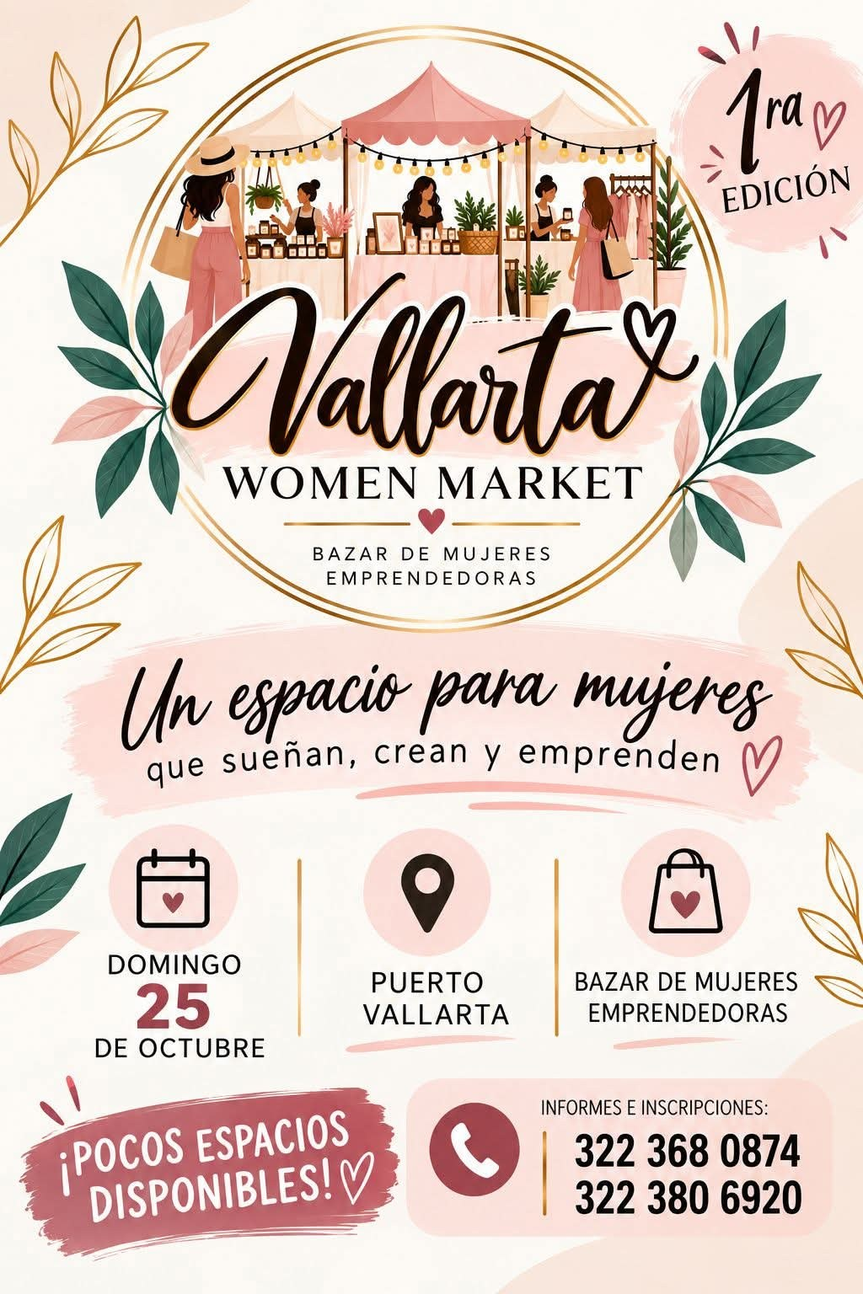
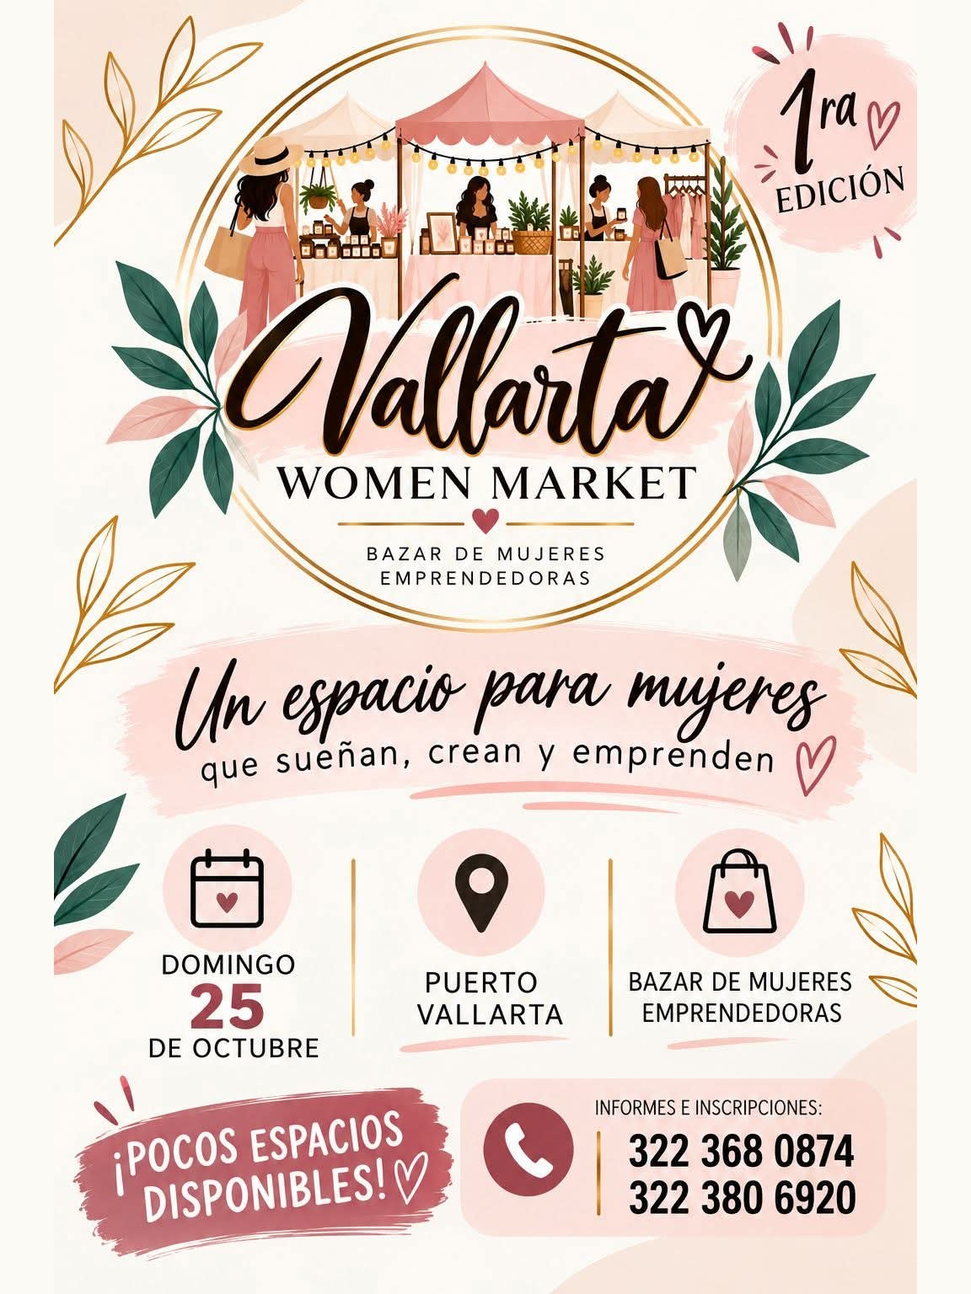
Vallarta Women Market: cartel nitido como foto y categorias con los giros del bazar

diff --git a/public/links/vallarta-women-market-mxl369n/index.html b/public/links/vallarta-women-market-mxl369n/index.html
@@ -13,9 +13,9 @@
 <meta property="og:description" content="Bazar de mujeres emprendedoras en Puerto Vallarta. Un espacio para mujeres que sueñan, crean y emprenden. 1ra edición: domingo 25 de octubre.">
 <meta property="og:url" content="https://www.hmulink.com/links/vallarta-women-market-mxl369n/">
 <meta property="og:locale" content="es_MX">
-<meta property="og:image" content="https://www.hmulink.com/links/vallarta-women-market-mxl369n/assets/portada.jpg">
+<meta property="og:image" content="https://www.hmulink.com/links/vallarta-women-market-mxl369n/assets/cartel.jpg">
 <meta name="twitter:card" content="summary_large_image">
-<meta name="twitter:image" content="https://www.hmulink.com/links/vallarta-women-market-mxl369n/assets/portada.jpg">
+<meta name="twitter:image" content="https://www.hmulink.com/links/vallarta-women-market-mxl369n/assets/cartel.jpg">
 <title>Vallarta Women Market - Servicios</title>
 <link rel="preconnect" href="https://fonts.googleapis.com">
 <link rel="preconnect" href="https://fonts.gstatic.com" crossorigin>
@@ -314,9 +314,9 @@ img.monogram{object-fit:contain;border:0;border-radius:12px;background:transpare
     <div class="hero__scroll" aria-hidden="true"><span>Desliza<i></i></span></div>
   </header>
 
-  <div class="shell figure figure--carousel" data-reveal data-gallery style="--figure-ratio:3/4"><div class="figure__viewport"><div class="figure__track"><div class="figure__slide"><img class="figure__media" src="https://www.hmulink.com/links/vallarta-women-market-mxl369n/assets/portada.jpg" alt="Vallarta Women Market" loading="eager"></div><div class="figure__slide"><img class="figure__media" src="https://www.hmulink.com/links/vallarta-women-market-mxl369n/assets/cartel.jpg" alt="Vallarta Women Market" loading="lazy"></div></div><button class="gallery-btn gallery-btn--prev" type="button" aria-label="Foto anterior">‹</button><button class="gallery-btn gallery-btn--next" type="button" aria-label="Foto siguiente">›</button></div><div class="gallery-dots"><button class="gallery-dot is-active" type="button" aria-label="Foto 1"></button><button class="gallery-dot" type="button" aria-label="Foto 2"></button></div></div>
-  <div class="marquee" aria-hidden="true"><div class="marquee__track" style="--marquee-seconds:84s"><span>Para expositoras <span class="dot">✦</span></span><span><em>Lo que encontrarás</em> <span class="dot">✦</span></span><span>Para las familias <span class="dot">✦</span></span><span>Para expositoras <span class="dot">✦</span></span><span><em>Lo que encontrarás</em> <span class="dot">✦</span></span><span>Para las familias <span class="dot">✦</span></span><span>Para expositoras <span class="dot">✦</span></span><span><em>Lo que encontrarás</em> <span class="dot">✦</span></span><span>Para las familias <span class="dot">✦</span></span><span>Para expositoras <span class="dot">✦</span></span><span><em>Lo que encontrarás</em> <span class="dot">✦</span></span><span>Para las familias <span class="dot">✦</span></span><span>Para expositoras <span class="dot">✦</span></span><span><em>Lo que encontrarás</em> <span class="dot">✦</span></span><span>Para las familias <span class="dot">✦</span></span><span>Para expositoras <span class="dot">✦</span></span><span><em>Lo que encontrarás</em> <span class="dot">✦</span></span><span>Para las familias <span class="dot">✦</span></span><span>Para expositoras <span class="dot">✦</span></span><span><em>Lo que encontrarás</em> <span class="dot">✦</span></span><span>Para las familias <span class="dot">✦</span></span><span>Para expositoras <span class="dot">✦</span></span><span><em>Lo que encontrarás</em> <span class="dot">✦</span></span><span>Para las familias <span class="dot">✦</span></span></div></div>
-  <section class="section" id="menu" data-theme="base"><div class="shell"><h2 data-reveal>Nuestros <em>servicios</em></h2><div class="menu-cat" data-reveal><div class="menu-cat__head"><h3 class="menu-cat__title">Para expositoras</h3><span class="menu-cat__rule"></span></div><div class="mrow"><div><span class="mrow__name">Espacio de 3 x 3 m</span><span class="mrow__desc">Máximo 2 personas por stand</span></div><span class="mrow__dots"></span><span class="mrow__price">$500 MXN</span></div><div class="mrow"><div><span class="mrow__name">Anticipo para apartar tu espacio</span><span class="mrow__desc">El resto se liquida antes del evento</span></div><span class="mrow__dots"></span><span class="mrow__price">$250 MXN</span></div><div class="mrow"><div><span class="mrow__name">Mesa, sillas y mobiliario</span><span class="mrow__desc">Si no cuentas con mobiliario, te apoyamos con la renta</span></div><span class="mrow__dots"></span><span class="mrow__price">Consultar</span></div></div><div class="menu-cat" data-reveal><div class="menu-cat__head"><h3 class="menu-cat__title">Lo que encontrarás</h3><span class="menu-cat__rule"></span></div><div class="mrow"><div><span class="mrow__name">Comida deliciosa, postres y bebidas</span></div></div><div class="mrow"><div><span class="mrow__name">Artesanías y cosmética</span></div></div><div class="mrow"><div><span class="mrow__name">Accesorios y ropa</span></div></div></div><div class="menu-cat" data-reveal><div class="menu-cat__head"><h3 class="menu-cat__title">Para las familias</h3><span class="menu-cat__rule"></span></div><div class="mrow"><div><span class="mrow__name">Concurso de disfraces para niños</span><span class="mrow__desc">4:00 pm · ¡Habrá premios sorpresa!</span></div></div><div class="mrow"><div><span class="mrow__name">Renta de brincolín</span><span class="mrow__desc">Con Diversiones El Güero</span></div></div></div></div></section>
+  <div class="shell figure" data-reveal style="--figure-ratio:3/4"><div class="figure__viewport"><img class="figure__media" src="https://www.hmulink.com/links/vallarta-women-market-mxl369n/assets/cartel.jpg" alt="Vallarta Women Market" loading="lazy"></div></div>
+  <div class="marquee" aria-hidden="true"><div class="marquee__track" style="--marquee-seconds:140s"><span>Antojos y bebidas <span class="dot">✦</span></span><span><em>Hecho a mano y belleza</em> <span class="dot">✦</span></span><span>Moda y accesorios <span class="dot">✦</span></span><span><em>Diversión para niños</em> <span class="dot">✦</span></span><span>Renta tu stand <span class="dot">✦</span></span><span>Antojos y bebidas <span class="dot">✦</span></span><span><em>Hecho a mano y belleza</em> <span class="dot">✦</span></span><span>Moda y accesorios <span class="dot">✦</span></span><span><em>Diversión para niños</em> <span class="dot">✦</span></span><span>Renta tu stand <span class="dot">✦</span></span><span>Antojos y bebidas <span class="dot">✦</span></span><span><em>Hecho a mano y belleza</em> <span class="dot">✦</span></span><span>Moda y accesorios <span class="dot">✦</span></span><span><em>Diversión para niños</em> <span class="dot">✦</span></span><span>Renta tu stand <span class="dot">✦</span></span><span>Antojos y bebidas <span class="dot">✦</span></span><span><em>Hecho a mano y belleza</em> <span class="dot">✦</span></span><span>Moda y accesorios <span class="dot">✦</span></span><span><em>Diversión para niños</em> <span class="dot">✦</span></span><span>Renta tu stand <span class="dot">✦</span></span><span>Antojos y bebidas <span class="dot">✦</span></span><span><em>Hecho a mano y belleza</em> <span class="dot">✦</span></span><span>Moda y accesorios <span class="dot">✦</span></span><span><em>Diversión para niños</em> <span class="dot">✦</span></span><span>Renta tu stand <span class="dot">✦</span></span><span>Antojos y bebidas <span class="dot">✦</span></span><span><em>Hecho a mano y belleza</em> <span class="dot">✦</span></span><span>Moda y accesorios <span class="dot">✦</span></span><span><em>Diversión para niños</em> <span class="dot">✦</span></span><span>Renta tu stand <span class="dot">✦</span></span><span>Antojos y bebidas <span class="dot">✦</span></span><span><em>Hecho a mano y belleza</em> <span class="dot">✦</span></span><span>Moda y accesorios <span class="dot">✦</span></span><span><em>Diversión para niños</em> <span class="dot">✦</span></span><span>Renta tu stand <span class="dot">✦</span></span><span>Antojos y bebidas <span class="dot">✦</span></span><span><em>Hecho a mano y belleza</em> <span class="dot">✦</span></span><span>Moda y accesorios <span class="dot">✦</span></span><span><em>Diversión para niños</em> <span class="dot">✦</span></span><span>Renta tu stand <span class="dot">✦</span></span></div></div>
+  <section class="section" id="menu" data-theme="base"><div class="shell"><h2 data-reveal>Nuestros <em>servicios</em></h2><div class="menu-cat" data-reveal><div class="menu-cat__head"><h3 class="menu-cat__title">Antojos y bebidas</h3><span class="menu-cat__rule"></span></div><div class="mrow"><div><span class="mrow__name">Comida deliciosa</span><span class="mrow__desc">Ven con hambre: hay de todo para probar</span></div></div><div class="mrow"><div><span class="mrow__name">Postres y bebidas</span><span class="mrow__desc">El antojo dulce y algo fresco para acompañar</span></div></div></div><div class="menu-cat" data-reveal><div class="menu-cat__head"><h3 class="menu-cat__title">Hecho a mano y belleza</h3><span class="menu-cat__rule"></span></div><div class="mrow"><div><span class="mrow__name">Artesanías</span><span class="mrow__desc">Piezas únicas hechas por emprendedoras locales</span></div></div><div class="mrow"><div><span class="mrow__name">Cosmética</span><span class="mrow__desc">Para consentirte o para regalar</span></div></div></div><div class="menu-cat" data-reveal><div class="menu-cat__head"><h3 class="menu-cat__title">Moda y accesorios</h3><span class="menu-cat__rule"></span></div><div class="mrow"><div><span class="mrow__name">Ropa</span><span class="mrow__desc">Encuentra tu estilo con marcas locales</span></div></div><div class="mrow"><div><span class="mrow__name">Accesorios</span><span class="mrow__desc">El detalle que completa tu look</span></div></div></div><div class="menu-cat" data-reveal><div class="menu-cat__head"><h3 class="menu-cat__title">Diversión para niños</h3><span class="menu-cat__rule"></span></div><div class="mrow"><div><span class="mrow__name">Concurso de disfraces</span><span class="mrow__desc">4:00 pm · ¡Habrá premios sorpresa!</span></div></div><div class="mrow"><div><span class="mrow__name">Renta de brincolín</span><span class="mrow__desc">Con Diversiones El Güero</span></div></div></div><div class="menu-cat" data-reveal><div class="menu-cat__head"><h3 class="menu-cat__title">Renta tu stand</h3><span class="menu-cat__rule"></span></div><div class="mrow"><div><span class="mrow__name">Espacio de 3 x 3 m</span><span class="mrow__desc">Máximo 2 personas por stand</span></div><span class="mrow__dots"></span><span class="mrow__price">$500 MXN</span></div><div class="mrow"><div><span class="mrow__name">Anticipo para apartar tu espacio</span><span class="mrow__desc">El resto se liquida antes del evento</span></div><span class="mrow__dots"></span><span class="mrow__price">$250 MXN</span></div><div class="mrow"><div><span class="mrow__name">Mesa, sillas y mobiliario</span><span class="mrow__desc">Si no cuentas con mobiliario, te apoyamos con la renta</span></div><span class="mrow__dots"></span><span class="mrow__price">Consultar</span></div></div></div></section>
   <section class="section section--featured" data-theme="alt"><div class="shell"><div class="ritual" data-reveal><div class="ritual__in"><span class="ritual__badge">Destacado</span><h3 class="ritual__name serif">¡Aparta tu espacio!</h3><p class="ritual__desc">Pocos espacios disponibles. Stand de 3 x 3 m para tu emprendimiento.</p><div class="ritual__price">$500 MXN</div></div></div></div></section>
   <section class="section" data-theme="alt"><div class="shell"><h2 data-reveal>Planea tu <em>visita</em></h2><div class="info-grid"><div class="info-row" data-reveal><h3>Horarios</h3><p>Domingo 25 de octubre de 2026, de 12:00 a 6:00 pm.</p></div><div class="info-row" data-reveal><h3>Reservaciones</h3><p>Informes e inscripciones por WhatsApp: 322 368 0874 o 322 380 6920.</p></div><div class="info-row" data-reveal><h3>Dónde estamos</h3><p>Salón Rancho Alegre, C. 16 de Septiembre 283, Rancho Alegre, Bobadilla, Puerto Vallarta<br><a class="mapl" href="https://maps.google.com/?q=Sal%C3%B3n+Rancho+Alegre%2C+16+de+Septiembre+283%2C+Bobadilla%2C+Puerto+Vallarta" target="_blank" rel="noopener noreferrer">Ver en Google Maps</a></p></div><div class="info-row" data-reveal><h3>Teléfono</h3><p>+523223680874<br><a href="tel:+523223680874">Llamar</a></p></div><div class="info-row" data-reveal><h3>Políticas</h3><ul><li>Cada expositora lleva lo necesario para montar y decorar su stand.</li><li>Máximo 2 personas por stand.</li><li>Para apartar tu espacio se solicita un anticipo de $250; el resto se liquida antes del evento.</li></ul></div><div class="info-row" data-reveal><h3>Enlaces</h3><div class="cta-row"><a class="btn btn--ghost btn--sm" href="tel:+523223680874" target="_blank" rel="noopener noreferrer">Llamar</a><a class="btn btn--ghost btn--sm" href="https://maps.google.com/?q=Sal%C3%B3n+Rancho+Alegre%2C+16+de+Septiembre+283%2C+Bobadilla%2C+Puerto+Vallarta" target="_blank" rel="noopener noreferrer">Google Maps</a></div></div></div></div></section>
 

diff --git a/public/links/vallarta-women-market-mxl369n/en/index.html b/public/links/vallarta-women-market-mxl369n/en/index.html
@@ -13,9 +13,9 @@
 <meta property="og:description" content="A market for women entrepreneurs in Puerto Vallarta. A space for women who dream, create and build. 1st edition: Sunday, October 25.">
 <meta property="og:url" content="https://www.hmulink.com/links/vallarta-women-market-mxl369n/en/">
 <meta property="og:locale" content="en_US">
-<meta property="og:image" content="https://www.hmulink.com/links/vallarta-women-market-mxl369n/assets/portada.jpg">
+<meta property="og:image" content="https://www.hmulink.com/links/vallarta-women-market-mxl369n/assets/cartel.jpg">
 <meta name="twitter:card" content="summary_large_image">
-<meta name="twitter:image" content="https://www.hmulink.com/links/vallarta-women-market-mxl369n/assets/portada.jpg">
+<meta name="twitter:image" content="https://www.hmulink.com/links/vallarta-women-market-mxl369n/assets/cartel.jpg">
 <title>Vallarta Women Market - Services</title>
 <link rel="preconnect" href="https://fonts.googleapis.com">
 <link rel="preconnect" href="https://fonts.gstatic.com" crossorigin>
@@ -314,9 +314,9 @@ img.monogram{object-fit:contain;border:0;border-radius:12px;background:transpare
     <div class="hero__scroll" aria-hidden="true"><span>Scroll<i></i></span></div>
   </header>
 
-  <div class="shell figure figure--carousel" data-reveal data-gallery style="--figure-ratio:3/4"><div class="figure__viewport"><div class="figure__track"><div class="figure__slide"><img class="figure__media" src="https://www.hmulink.com/links/vallarta-women-market-mxl369n/assets/portada.jpg" alt="Vallarta Women Market" loading="eager"></div><div class="figure__slide"><img class="figure__media" src="https://www.hmulink.com/links/vallarta-women-market-mxl369n/assets/cartel.jpg" alt="Vallarta Women Market" loading="lazy"></div></div><button class="gallery-btn gallery-btn--prev" type="button" aria-label="Previous photo">‹</button><button class="gallery-btn gallery-btn--next" type="button" aria-label="Next photo">›</button></div><div class="gallery-dots"><button class="gallery-dot is-active" type="button" aria-label="Photo 1"></button><button class="gallery-dot" type="button" aria-label="Photo 2"></button></div></div>
-  <div class="marquee" aria-hidden="true"><div class="marquee__track" style="--marquee-seconds:84s"><span>For vendors <span class="dot">✦</span></span><span><em>What you&#x27;ll find</em> <span class="dot">✦</span></span><span>For families <span class="dot">✦</span></span><span>For vendors <span class="dot">✦</span></span><span><em>What you&#x27;ll find</em> <span class="dot">✦</span></span><span>For families <span class="dot">✦</span></span><span>For vendors <span class="dot">✦</span></span><span><em>What you&#x27;ll find</em> <span class="dot">✦</span></span><span>For families <span class="dot">✦</span></span><span>For vendors <span class="dot">✦</span></span><span><em>What you&#x27;ll find</em> <span class="dot">✦</span></span><span>For families <span class="dot">✦</span></span><span>For vendors <span class="dot">✦</span></span><span><em>What you&#x27;ll find</em> <span class="dot">✦</span></span><span>For families <span class="dot">✦</span></span><span>For vendors <span class="dot">✦</span></span><span><em>What you&#x27;ll find</em> <span class="dot">✦</span></span><span>For families <span class="dot">✦</span></span><span>For vendors <span class="dot">✦</span></span><span><em>What you&#x27;ll find</em> <span class="dot">✦</span></span><span>For families <span class="dot">✦</span></span><span>For vendors <span class="dot">✦</span></span><span><em>What you&#x27;ll find</em> <span class="dot">✦</span></span><span>For families <span class="dot">✦</span></span></div></div>
-  <section class="section" id="menu" data-theme="base"><div class="shell"><h2 data-reveal>Our <em>services</em></h2><div class="menu-cat" data-reveal><div class="menu-cat__head"><h3 class="menu-cat__title">For vendors</h3><span class="menu-cat__rule"></span></div><div class="mrow"><div><span class="mrow__name">3 x 3 m booth</span><span class="mrow__desc">Up to 2 people per booth</span></div><span class="mrow__dots"></span><span class="mrow__price">$500 MXN</span></div><div class="mrow"><div><span class="mrow__name">Deposit to save your spot</span><span class="mrow__desc">Balance due before the event</span></div><span class="mrow__dots"></span><span class="mrow__price">$250 MXN</span></div><div class="mrow"><div><span class="mrow__name">Table, chairs and furniture</span><span class="mrow__desc">No furniture? We can help you rent it</span></div><span class="mrow__dots"></span><span class="mrow__price">Ask us</span></div></div><div class="menu-cat" data-reveal><div class="menu-cat__head"><h3 class="menu-cat__title">What you&#x27;ll find</h3><span class="menu-cat__rule"></span></div><div class="mrow"><div><span class="mrow__name">Delicious food, desserts and drinks</span></div></div><div class="mrow"><div><span class="mrow__name">Crafts and cosmetics</span></div></div><div class="mrow"><div><span class="mrow__name">Accessories and clothing</span></div></div></div><div class="menu-cat" data-reveal><div class="menu-cat__head"><h3 class="menu-cat__title">For families</h3><span class="menu-cat__rule"></span></div><div class="mrow"><div><span class="mrow__name">Kids&#x27; costume contest</span><span class="mrow__desc">4:00 PM · Surprise prizes!</span></div></div><div class="mrow"><div><span class="mrow__name">Bounce house rental</span><span class="mrow__desc">By Diversiones El Güero</span></div></div></div></div></section>
+  <div class="shell figure" data-reveal style="--figure-ratio:3/4"><div class="figure__viewport"><img class="figure__media" src="https://www.hmulink.com/links/vallarta-women-market-mxl369n/assets/cartel.jpg" alt="Vallarta Women Market" loading="lazy"></div></div>
+  <div class="marquee" aria-hidden="true"><div class="marquee__track" style="--marquee-seconds:140s"><span>Food and drinks <span class="dot">✦</span></span><span><em>Handmade and beauty</em> <span class="dot">✦</span></span><span>Fashion and accessories <span class="dot">✦</span></span><span><em>Fun for kids</em> <span class="dot">✦</span></span><span>Rent a booth <span class="dot">✦</span></span><span>Food and drinks <span class="dot">✦</span></span><span><em>Handmade and beauty</em> <span class="dot">✦</span></span><span>Fashion and accessories <span class="dot">✦</span></span><span><em>Fun for kids</em> <span class="dot">✦</span></span><span>Rent a booth <span class="dot">✦</span></span><span>Food and drinks <span class="dot">✦</span></span><span><em>Handmade and beauty</em> <span class="dot">✦</span></span><span>Fashion and accessories <span class="dot">✦</span></span><span><em>Fun for kids</em> <span class="dot">✦</span></span><span>Rent a booth <span class="dot">✦</span></span><span>Food and drinks <span class="dot">✦</span></span><span><em>Handmade and beauty</em> <span class="dot">✦</span></span><span>Fashion and accessories <span class="dot">✦</span></span><span><em>Fun for kids</em> <span class="dot">✦</span></span><span>Rent a booth <span class="dot">✦</span></span><span>Food and drinks <span class="dot">✦</span></span><span><em>Handmade and beauty</em> <span class="dot">✦</span></span><span>Fashion and accessories <span class="dot">✦</span></span><span><em>Fun for kids</em> <span class="dot">✦</span></span><span>Rent a booth <span class="dot">✦</span></span><span>Food and drinks <span class="dot">✦</span></span><span><em>Handmade and beauty</em> <span class="dot">✦</span></span><span>Fashion and accessories <span class="dot">✦</span></span><span><em>Fun for kids</em> <span class="dot">✦</span></span><span>Rent a booth <span class="dot">✦</span></span><span>Food and drinks <span class="dot">✦</span></span><span><em>Handmade and beauty</em> <span class="dot">✦</span></span><span>Fashion and accessories <span class="dot">✦</span></span><span><em>Fun for kids</em> <span class="dot">✦</span></span><span>Rent a booth <span class="dot">✦</span></span><span>Food and drinks <span class="dot">✦</span></span><span><em>Handmade and beauty</em> <span class="dot">✦</span></span><span>Fashion and accessories <span class="dot">✦</span></span><span><em>Fun for kids</em> <span class="dot">✦</span></span><span>Rent a booth <span class="dot">✦</span></span></div></div>
+  <section class="section" id="menu" data-theme="base"><div class="shell"><h2 data-reveal>Our <em>services</em></h2><div class="menu-cat" data-reveal><div class="menu-cat__head"><h3 class="menu-cat__title">Food and drinks</h3><span class="menu-cat__rule"></span></div><div class="mrow"><div><span class="mrow__name">Delicious food</span><span class="mrow__desc">Come hungry: there&#x27;s plenty to try</span></div></div><div class="mrow"><div><span class="mrow__name">Desserts and drinks</span><span class="mrow__desc">Something sweet and something cool to go with it</span></div></div></div><div class="menu-cat" data-reveal><div class="menu-cat__head"><h3 class="menu-cat__title">Handmade and beauty</h3><span class="menu-cat__rule"></span></div><div class="mrow"><div><span class="mrow__name">Crafts</span><span class="mrow__desc">One-of-a-kind pieces by local women entrepreneurs</span></div></div><div class="mrow"><div><span class="mrow__name">Cosmetics</span><span class="mrow__desc">To treat yourself or as a gift</span></div></div></div><div class="menu-cat" data-reveal><div class="menu-cat__head"><h3 class="menu-cat__title">Fashion and accessories</h3><span class="menu-cat__rule"></span></div><div class="mrow"><div><span class="mrow__name">Clothing</span><span class="mrow__desc">Find your style with local brands</span></div></div><div class="mrow"><div><span class="mrow__name">Accessories</span><span class="mrow__desc">The detail that completes your look</span></div></div></div><div class="menu-cat" data-reveal><div class="menu-cat__head"><h3 class="menu-cat__title">Fun for kids</h3><span class="menu-cat__rule"></span></div><div class="mrow"><div><span class="mrow__name">Costume contest</span><span class="mrow__desc">4:00 PM · Surprise prizes!</span></div></div><div class="mrow"><div><span class="mrow__name">Bounce house rental</span><span class="mrow__desc">By Diversiones El Güero</span></div></div></div><div class="menu-cat" data-reveal><div class="menu-cat__head"><h3 class="menu-cat__title">Rent a booth</h3><span class="menu-cat__rule"></span></div><div class="mrow"><div><span class="mrow__name">3 x 3 m booth</span><span class="mrow__desc">Up to 2 people per booth</span></div><span class="mrow__dots"></span><span class="mrow__price">$500 MXN</span></div><div class="mrow"><div><span class="mrow__name">Deposit to save your spot</span><span class="mrow__desc">Balance due before the event</span></div><span class="mrow__dots"></span><span class="mrow__price">$250 MXN</span></div><div class="mrow"><div><span class="mrow__name">Table, chairs and furniture</span><span class="mrow__desc">No furniture? We can help you rent it</span></div><span class="mrow__dots"></span><span class="mrow__price">Ask us</span></div></div></div></section>
   <section class="section section--featured" data-theme="alt"><div class="shell"><div class="ritual" data-reveal><div class="ritual__in"><span class="ritual__badge">Featured</span><h3 class="ritual__name serif">Save your spot!</h3><p class="ritual__desc">Limited spaces. A 3 x 3 m booth for your business.</p><div class="ritual__price">$500 MXN</div></div></div></div></section>
   <section class="section" data-theme="alt"><div class="shell"><h2 data-reveal>Plan your <em>visit</em></h2><div class="info-grid"><div class="info-row" data-reveal><h3>Hours</h3><p>Sunday, October 25, 2026, 12:00 to 6:00 PM.</p></div><div class="info-row" data-reveal><h3>Reservations</h3><p>Info and vendor sign-up on WhatsApp: 322 368 0874 or 322 380 6920.</p></div><div class="info-row" data-reveal><h3>Where we are</h3><p>Salón Rancho Alegre, C. 16 de Septiembre 283, Rancho Alegre, Bobadilla, Puerto Vallarta<br><a class="mapl" href="https://maps.google.com/?q=Sal%C3%B3n+Rancho+Alegre%2C+16+de+Septiembre+283%2C+Bobadilla%2C+Puerto+Vallarta" target="_blank" rel="noopener noreferrer">View on Google Maps</a></p></div><div class="info-row" data-reveal><h3>Phone</h3><p>+523223680874<br><a href="tel:+523223680874">Call</a></p></div><div class="info-row" data-reveal><h3>Policies</h3><ul><li>Each vendor brings everything needed to set up and decorate their booth.</li><li>Up to 2 people per booth.</li><li>A $250 deposit saves your spot; the balance is due before the event.</li></ul></div><div class="info-row" data-reveal><h3>Links</h3><div class="cta-row"><a class="btn btn--ghost btn--sm" href="tel:+523223680874" target="_blank" rel="noopener noreferrer">Call</a><a class="btn btn--ghost btn--sm" href="https://maps.google.com/?q=Sal%C3%B3n+Rancho+Alegre%2C+16+de+Septiembre+283%2C+Bobadilla%2C+Puerto+Vallarta" target="_blank" rel="noopener noreferrer">Google Maps</a></div></div></div></div></section>
 
